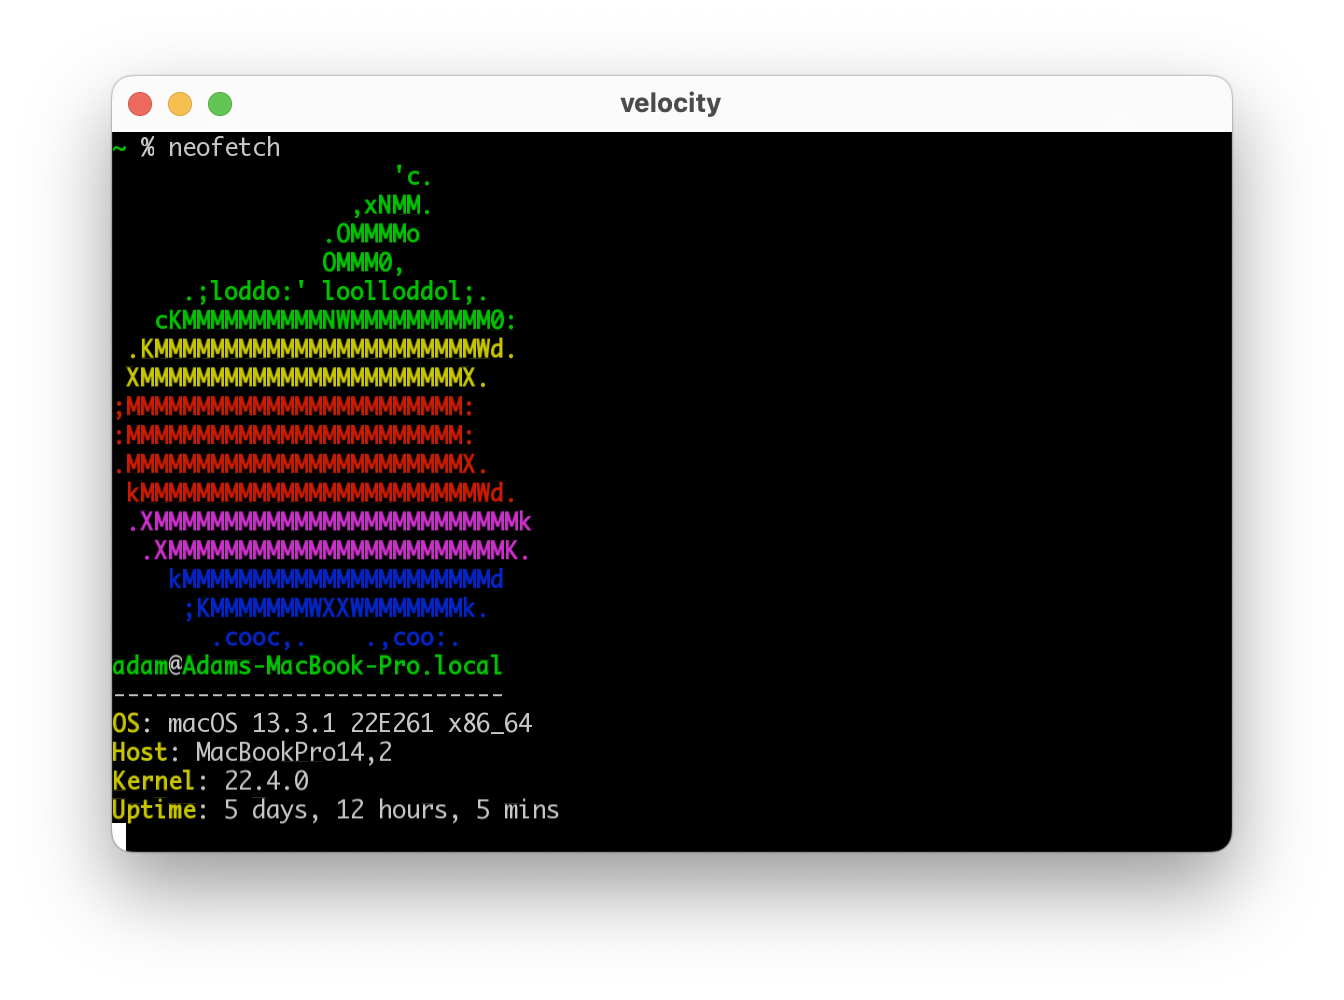
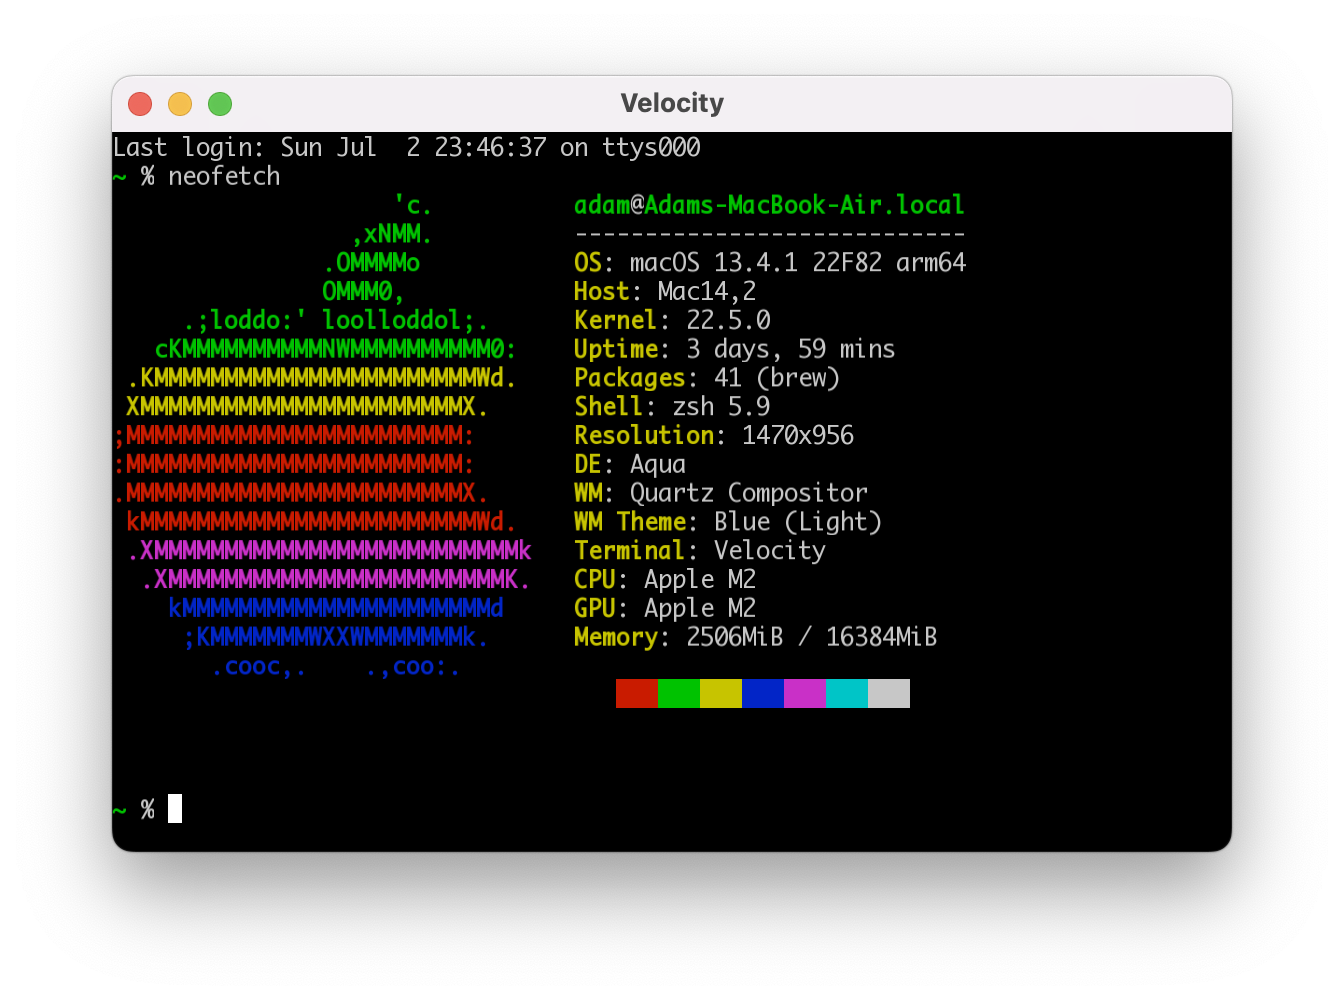
Update neofetch screenshot I fixed the behaviour of the Terminal section

diff --git a/README.md b/README.md
@@ -18,7 +18,7 @@ parsing, escape sequence implementation, etc. is all custom.
 </tr>
 <tr>
 <td>
-  <img src="./assets/screenshots/v-m2-neofetch.png">
+  <img src="./assets/screenshots/v-neofetch.png">
 </td>
 <td>
   <img src="./assets/screenshots/v-git.png">
